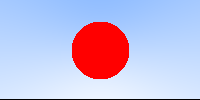
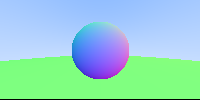
part two done, we have multi-sphere

diff --git a/src/main.rs b/src/main.rs
@@ -5,51 +5,25 @@ use std::f32;
 
 mod vec3;
 use vec3::*;
+mod ray;
+use ray::*;
+mod hit;
+use hit::*;
+mod sphere;
+use sphere::*;
+mod world;
+use world::*;
 
-#[derive(Debug, PartialEq)]
-struct Ray {
-    a: Vec3,
-    b: Vec3
-}
-
-impl Ray {
-
-    fn new(a: Vec3, b: Vec3) -> Self {
-        Ray {
-            a,
-            b
-        }
+fn color(ray: Ray, world: &World) -> Vec3 {
+    let mut hit_record: HitRecord = HitRecord::new();
+    if world.hit(&ray, 0.0, 255.0, &mut hit_record) {
+        return 0.5 * Vec3::new(hit_record.normal.x()+1.0, hit_record.normal.y()+1.0, hit_record.normal.z()+1.0);
     }
-
-    fn origin(&self) -> Vec3 {
-        Vec3::from_vec3(&self.a)
+    else {
+        let unit_direction: Vec3 = Vec3::unit_vector(ray.direction());
+        let t: f32 = 0.5 * (unit_direction.y() + 1.0);
+        return (1.0-t)*Vec3::new(1.0, 1.0, 1.0) + t*Vec3::new(0.5, 0.7, 1.0);
     }
-
-    fn direction(&self) -> Vec3 {
-        Vec3::from_vec3(&self.b)
-    }
-
-    fn point_at_parameter(&self, t: f32) -> Vec3 {
-        self.origin() + t*self.direction()
-    }
-}
-
-fn hit_sphere(center: &Vec3, radius: &f32, r: &Ray) -> bool {
-    let oc: Vec3 = r.origin() - center.copy();
-    let a: f32 = Vec3::dot(&r.direction(), &r.direction());
-    let b: f32 = 2.0 * Vec3::dot(&oc, &r.direction());
-    let c: f32 = Vec3::dot(&oc, &oc) - radius*radius;
-    let discriminant: f32 = f32::powf(b, 2.0) - (4.0*a*c);
-    discriminant > 0.0
-}
-
-fn color(ray: Ray) -> Vec3 {
-    if hit_sphere(&Vec3::new(0.0, 0.0, -1.0), &0.5, &ray) {
-        return Vec3::new(1.0, 0.0, 0.0);
-    }
-    let unit_direction: Vec3 = Vec3::unit_vector(ray.direction());
-    let t: f32 = 0.5 * (unit_direction.y() + 1.0);
-    (1.0-t)*Vec3::new(1.0, 1.0, 1.0) + t*Vec3::new(0.5, 0.7, 1.0)
 }
 
 fn main() {
@@ -62,6 +36,12 @@ fn main() {
     let horizontal: Vec3    = Vec3::new(4.0, 0.0, 0.0);
     let vertical: Vec3      = Vec3::new(0.0, 2.0, 0.0);
     let origin: Vec3        = Vec3::new(0.0, 0.0, 0.0);
+
+    let mut spheres: Vec<Sphere> = Vec::new();
+    spheres.push(Sphere::new(Vec3::new(0.0, 0.0, -1.0), 0.5));
+    spheres.push(Sphere::new(Vec3::new(0.0, -100.5, -1.0), 100.0));
+    let world: World = World::from_vec(spheres);
+
     for j in 0..ny-1 {
         for i in 0..nx {
             let u: f32 = (i as f32)/fx;
@@ -70,7 +50,8 @@ fn main() {
                 origin.copy(),
                 lower_left_corner.copy() + (u*horizontal.copy()) + (v*vertical.copy())
             );
-            let col: Vec3 = color(r);
+            let p: Vec3 = r.point_at_parameter(2.0);
+            let col: Vec3 = color(r, &world);
             let r: u8 = (255.99 * col.r()) as u8;
             let g: u8 = (255.99 * col.g()) as u8;
             let b: u8 = (255.99 * col.b()) as u8;

diff --git a/src/sphere.rs b/src/sphere.rs
@@ -1,0 +1,45 @@
+
+use vec3::*;
+use hit::*;
+use ray::*;
+
+pub struct Sphere {
+    pub radius: f32,
+    pub center: Vec3
+}
+
+impl Sphere {
+    pub fn new(center: Vec3, radius: f32) -> Self {
+        Sphere {
+            center,
+            radius
+        }
+    }
+}
+
+impl Hit for Sphere {
+    fn hit(&self, r: &Ray, t_min: f32, t_max: f32, rec: &mut HitRecord) -> bool {
+        let oc: Vec3 = r.origin() - self.center.copy();
+        let a: f32 = Vec3::dot(&r.direction(), &r.direction());
+        let b: f32 = Vec3::dot(&oc, &r.direction());
+        let c: f32 = Vec3::dot(&oc, &oc) - self.radius*self.radius;
+        let discriminant: f32 = f32::powf(b, 2.0) - (a*c);
+        if discriminant > 0.0 {
+            let mut temp: f32 = (-b - f32::sqrt(f32::powf(b, 2.0) - a*c))/a;
+            if temp < t_max && temp > t_min {
+                rec.t = temp;
+                rec.p = r.point_at_parameter(rec.t);
+                rec.normal = (rec.p - self.center) / self.radius;
+                return true;
+            }
+            temp = (-b + f32::sqrt(f32::powf(b, 2.0) - a*c))/a;
+            if temp < t_max && temp > t_min {
+                rec.t = temp;
+                rec.p = r.point_at_parameter(rec.t);
+                rec.normal = (rec.p - self.center) / self.radius;
+                return true;
+            }
+        }
+        false
+    }
+}

diff --git a/src/world.rs b/src/world.rs
@@ -1,0 +1,37 @@
+
+use hit::*;
+use ray::*;
+use sphere::*;
+
+pub struct World {
+    pub contents: Vec<Sphere>
+}
+
+impl World {
+    pub fn new() -> Self {
+        World {
+            contents: Vec::new()
+        }
+    }
+    pub fn from_vec(contents: Vec<Sphere>) -> Self {
+        World {
+            contents
+        }
+    }
+}
+
+impl Hit for World {
+    fn hit(&self, r: &Ray, t_min: f32, t_max: f32, rec: &mut HitRecord) -> bool {
+        let mut temp_rec: HitRecord = HitRecord::new();
+        let mut hit_anything: bool = false;
+        let mut closest_so_far: f32 = t_max;
+        for object in self.contents.iter() {
+            if object.hit(&r, t_min, closest_so_far, &mut temp_rec) {
+                hit_anything = true;
+                closest_so_far = temp_rec.t;
+                rec.copy_from_hit_record(&temp_rec);
+            }
+        }
+        hit_anything
+    }
+}

diff --git a/src/hit.rs b/src/hit.rs
@@ -1,0 +1,37 @@
+
+use vec3::*;
+use ray::*;
+
+#[derive(Debug, Copy, Clone)]
+pub struct HitRecord {
+    pub t: f32,
+    pub p: Vec3,
+    pub normal: Vec3
+}
+
+impl HitRecord {
+    pub fn new() -> Self {
+        HitRecord{
+            t: 0.0,
+            p: Vec3::new(0.0, 0.0, 0.0),
+            normal: Vec3::new(0.0, 0.0, 0.0)
+        }
+    }
+    pub fn from_hit_record(rec: &HitRecord) -> Self {
+        HitRecord{
+            t: rec.t,
+            p: rec.p,
+            normal: rec.normal
+        }
+    }
+    pub fn copy_from_hit_record(&mut self, rec: &HitRecord) {
+        self.t = rec.t;
+        self.p = rec.p;
+        self.normal = rec.normal;
+    }
+}
+
+pub trait Hit {
+    fn hit(&self, r: &Ray, t_min: f32, t_max: f32, rec: &mut HitRecord) -> bool;
+}
+

diff --git a/src/ray.rs b/src/ray.rs
@@ -1,0 +1,30 @@
+
+use vec3::*;
+
+#[derive(Debug, PartialEq)]
+pub struct Ray {
+    a: Vec3,
+    b: Vec3
+}
+
+impl Ray {
+
+    pub fn new(a: Vec3, b: Vec3) -> Self {
+        Ray {
+            a,
+            b
+        }
+    }
+
+    pub fn origin(&self) -> Vec3 {
+        Vec3::from_vec3(&self.a)
+    }
+
+    pub fn direction(&self) -> Vec3 {
+        Vec3::from_vec3(&self.b)
+    }
+
+    pub fn point_at_parameter(&self, t: f32) -> Vec3 {
+        self.origin() + t*self.direction()
+    }
+}

diff --git a/src/vec3.rs b/src/vec3.rs
@@ -1,7 +1,7 @@
 use std::ops::{Neg, Div, DivAssign, Sub, SubAssign, Add, AddAssign, Mul, MulAssign};
 use std::f32;
 
-#[derive(Debug, PartialEq)]
+#[derive(Debug, PartialEq, Copy, Clone)]
 pub struct Vec3 {
     e: [f32; 3]
 }
